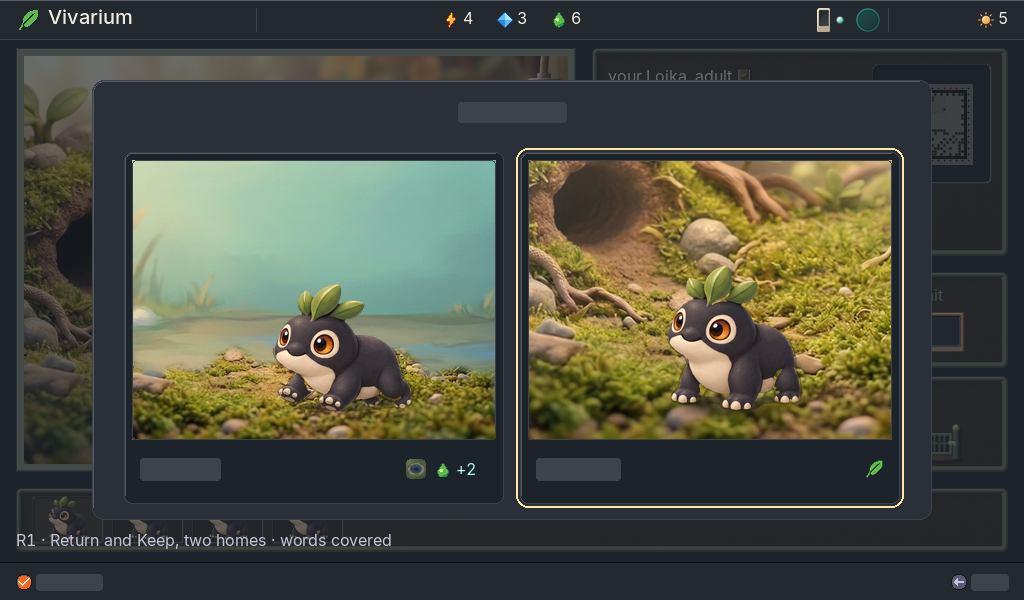
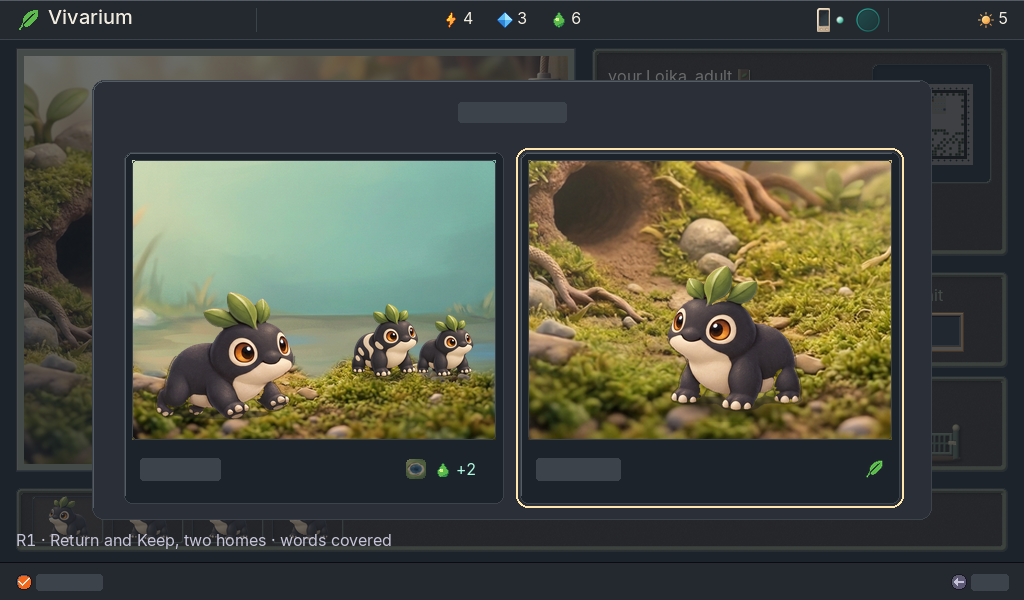
T-20261016-195: Return shows Pip going home to its kind (differs from Keep at a glance)

Changed region(s): [[0.1562, 0.48, 0.4688, 0.72]]

diff --git a/results/T-20261016-195/make-r1.py b/results/T-20261016-195/make-r1.py
@@ -26,7 +26,7 @@ def daylight(img, strength=0.22):
 
 
 def scene_return_home(w, h):
-    """Return: Pip home at its pond, mid-leap on a mossy bank under open sky: the wild, in daylight, thriving."""
+    """Return: Pip home at its pond, bounding along a mossy bank toward two of its own kind, under open sky, in daylight."""
     sky = src('sitting-backdrop-pond-544x408.png')
     k = (h + 40) / 408
     sky = sky.resize((round(544 * k), h + 40), Image.LANCZOS).crop((0, 40, w, h + 40))  # the water band in view
@@ -44,9 +44,16 @@ def scene_return_home(w, h):
     bank.putalpha(m.filter(ImageFilter.GaussianBlur(3)))
     sky.alpha_composite(bank, (0, h - bank.height))
     sky = daylight(sky)
-    pip = src('pip-air-304x312.png')  # body and its shadow on the ground, in one frame (feet row 305)
+    # its own kind, already there: two wild Loikas further along the bank, smaller with distance, facing Pip
+    for name, sc, fx, flip in (('rich-marked-300x310.png', 0.25, 0.70, True), ('rich-plain-300x310.png', 0.21, 0.86, True)):
+        f = figure(name, sc, flip=flip)
+        x, y = int(w * fx) - f.width // 2, h - 62 - f.height
+        sh = contact(round(f.width * 0.8), 8, 0.45)
+        sky.alpha_composite(sh, (x + f.width // 2 - sh.width // 2, y + f.height - sh.height // 2 - 1))
+        sky.alpha_composite(f, (x, y))
+    pip = src('pip-air-304x312.png').transpose(Image.FLIP_LEFT_RIGHT)  # bounding toward them (body and shadow, feet row 305)
     pip = pip.resize((round(304 * 0.5), round(312 * 0.5)), Image.LANCZOS)
-    px, py = int(w * 0.36), h - 30 - round(305 * 0.5)
+    px, py = int(w * 0.06), h - 22 - round(305 * 0.5)
     sky.alpha_composite(pip, (px, py))
     return sky
 

diff --git a/results/T-20261016-195/art-director.md b/results/T-20261016-195/art-director.md
@@ -11,10 +11,18 @@ The owner's ruling on T-170: Return read as a loss, and the panel leaned on text
 ## Return: two homes, not a farewell
 
 - **What T-170 got wrong.** Its Return window said "loss" before any word did: dusk, a cold grade, Pip small and walking away, footprints leading out of frame. Beside it, Keep was big, warm and asleep. The picture made the choice for the player.
-- **Return now.** Pip is at its pond, mid-bound on a mossy bank, in open daylight with the water behind. It is the wild, and Pip is thriving there.
+- **Return now.** Pip is at its pond, bounding along a mossy bank toward two of its own kind, who are already there, in open daylight with the water behind. It is the wild, and Pip is going home to it. The story is "back to its kind", not "away from you".
 - **Keep now.** Pip is in its vivarium by the burrow, awake.
-- **What is the same in both:** Pip's scale (the same frame at 0.5), the light (the same warm daylight from the top left), Pip awake and facing us, and the same moss underfoot. The bank is the vivarium's own moss and stones, so the wild reads as the life's home ground, not somewhere bleak.
-- **What differs is only the place:** open sky and water against the burrow and the glass's world. With the words covered, the two windows read as two homes.
+- **The same in both:**
+  - Pip's scale (the same frame at 0.5);
+  - the light (the same warm daylight from the top left);
+  - Pip awake;
+  - the moss underfoot. The bank is the vivarium's own moss and stones, so the wild reads as the life's home ground, not somewhere bleak.
+- **Different at a glance:**
+  - the place: open sky and water, against the burrow and the glass's world;
+  - the company: Pip with its kind, against Pip with you.
+
+  Plate 04a records the owner rejecting an earlier Return because "side by side the two options look the same" (the same Pip on the same plinth, only the backdrop changed). A change of place alone risks that again. The wild Loikas give Return its own content without making it the sad one.
 - **The coral line and the ✕ are gone.** Nothing on the panel is coral, red or crossed. Returning harms neither the player nor the mibi.
 
 ## The icons carry the sentences
